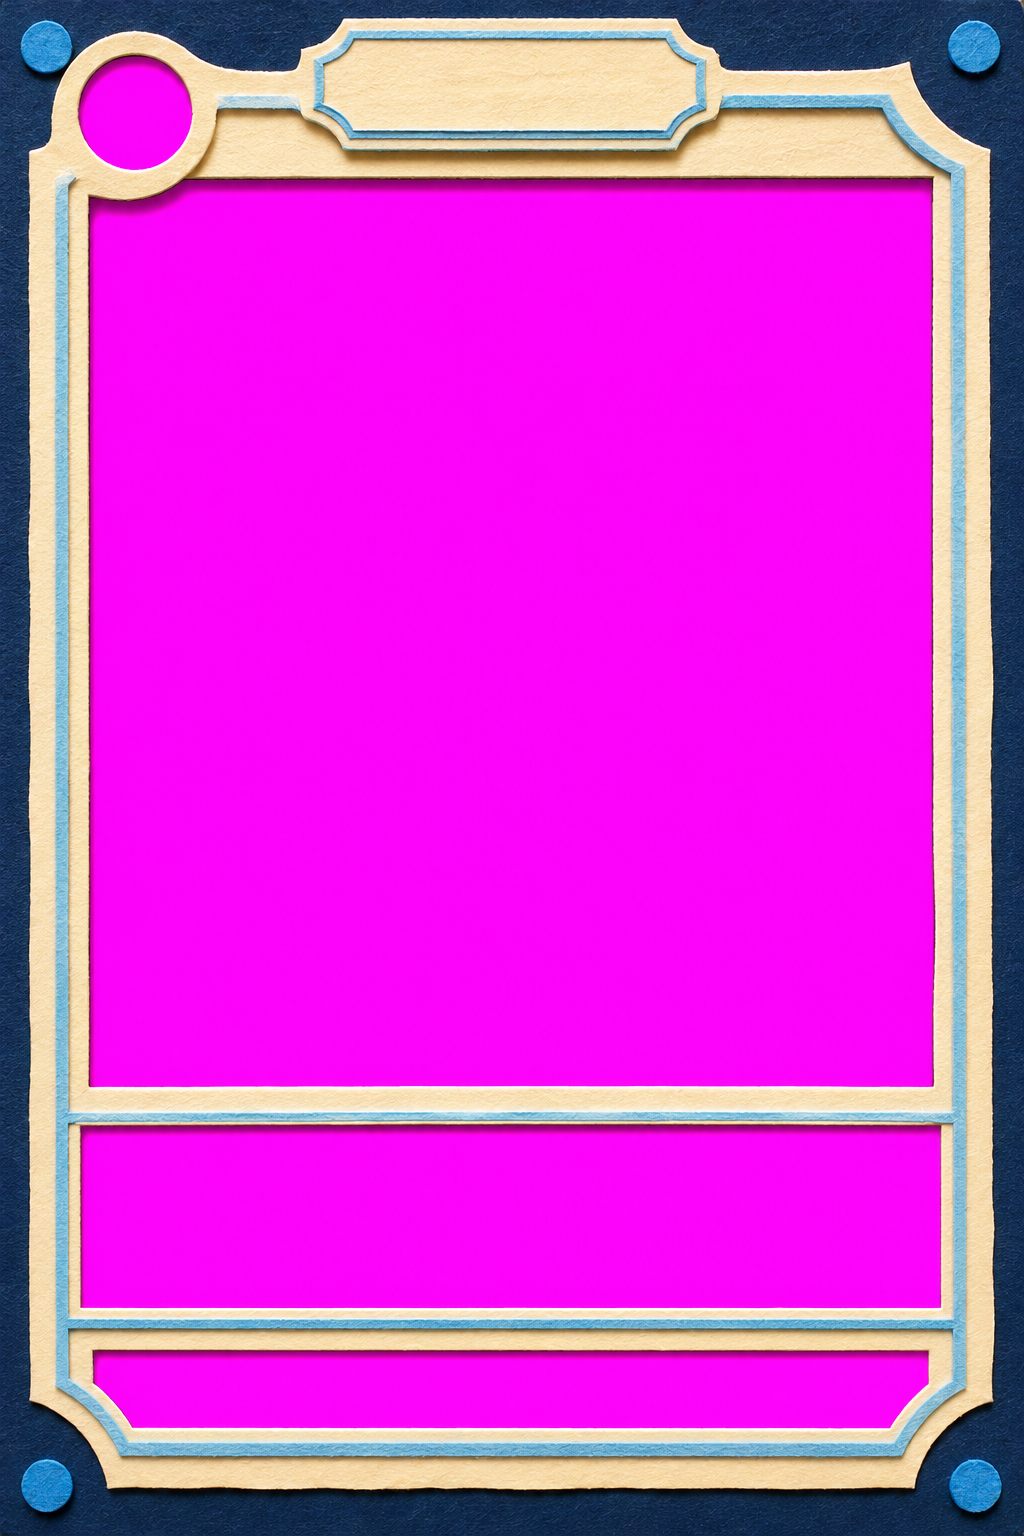
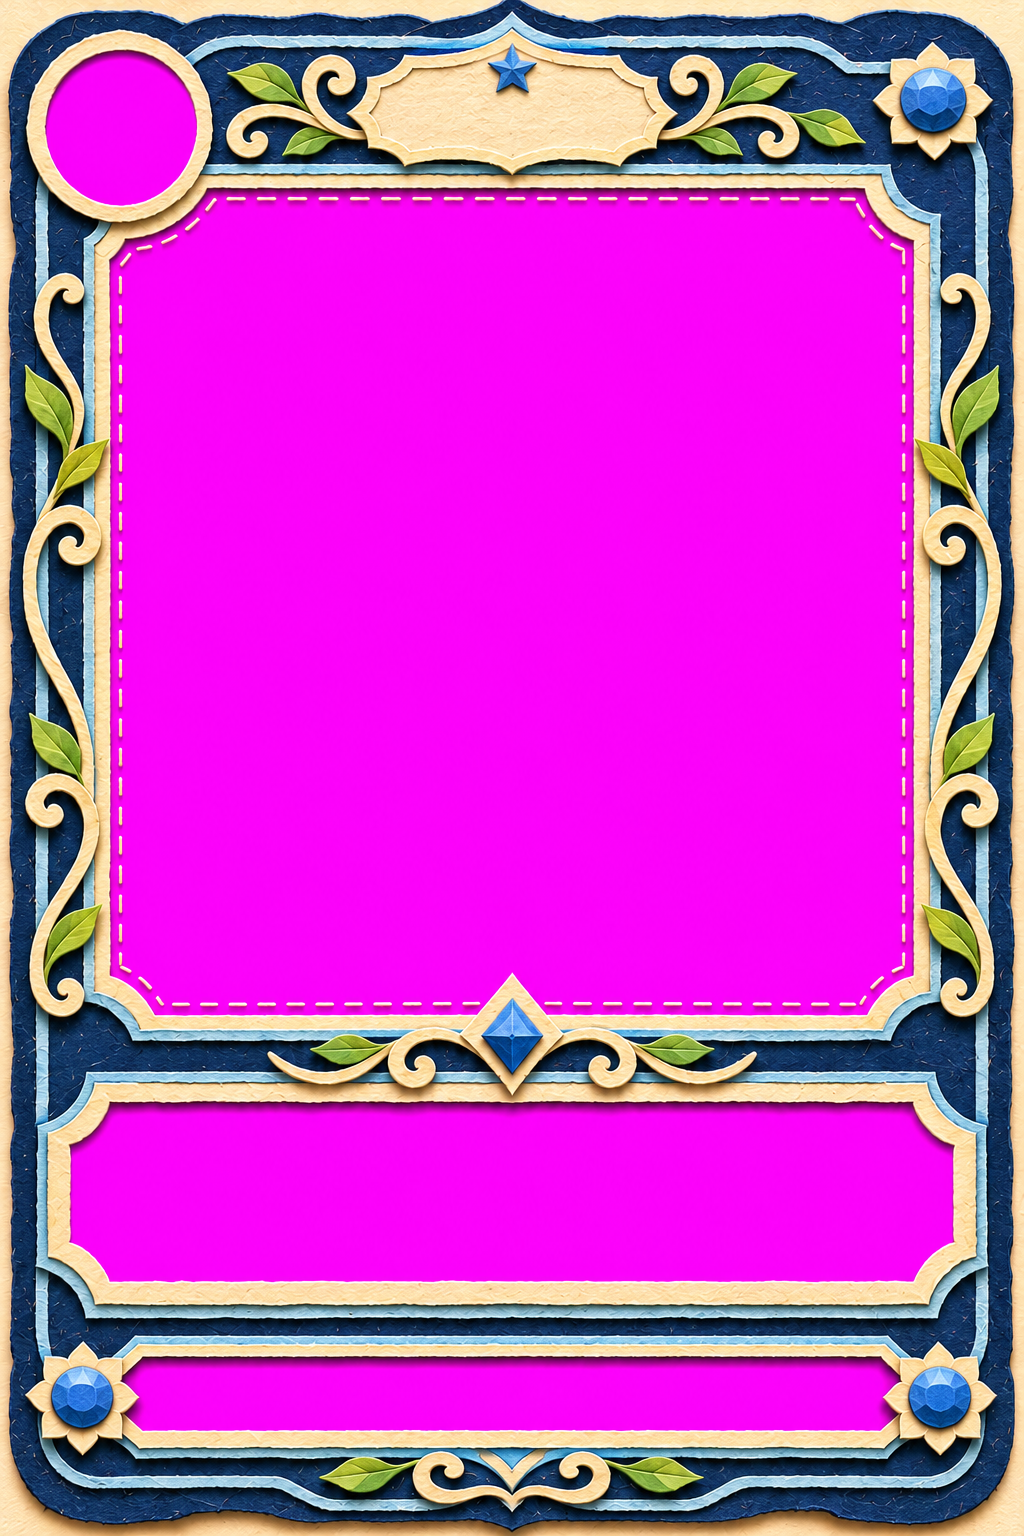
docs: ลดรายละเอียดกรอบหายากลงเหลือเล็กน้อย

diff --git a/art_templates/papercraft_cards/PROMPTS.md b/art_templates/papercraft_cards/PROMPTS.md
@@ -37,7 +37,7 @@ Frame:
 
 | ไฟล์ | ระดับ | คำอธิบาย (ต่อท้าย `Frame:`) |
 |---|---|---|
-| `card_frame_rare.png` | หายาก | `a frame of layered dark navy-blue and cream card with a thin pale-blue paper trim and a second inner border line, small paper-cut leaf scrolls along the top and bottom edges, a small paper-cut star on the top plate, four round blue paper gems in the corners each set in a small cut-paper rosette, and fine stitched-line detail along the inner window edge; clearly detailed but still the plainest of the three` |
+| `card_frame_rare.png` | หายาก | `a frame of layered dark navy-blue and cream card with a thin pale-blue paper trim, four small round blue paper gems in the corners, and one small paper-cut star on the top plate; only slightly more detailed than a plain frame, still the simplest of the three` |
 | `card_frame_epic.png` | มหากาพย์ | `the same frame layout in layered deep violet and cream card with paper-cut vine curls along the sides, small violet paper gems at the corners and the top plate` |
 | `card_frame_legendary.png` | ตำนาน | `the same frame layout, the richest of the three: layered deep amber-orange, dark brown and gold-foil paper, thick paper-cut filigree and small spiky ornaments, a few small gold paper stars, amber paper gems at the corners and the top plate` |
 
